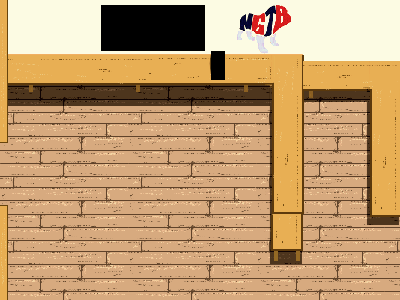
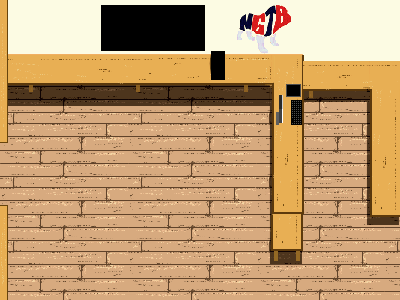
Added computer for Scott

Changed region(s): [[0.69, 0.27, 0.78, 0.42]]

diff --git a/Python Files/animation.py b/Python Files/animation.py
@@ -14,7 +14,11 @@ def animation(length, runner, folderName, directory):
     frame_length = round(length / images_num)  # How many frames each image is played for
     frameList = []  # The list of images for the animation
     for item in range(0, images_num):
-        frameList.append(pygame.image.load(directory + folderName + "/" + str(item) + ".png"))
+        try:
+            frameList.append(pygame.image.load(directory + folderName + "/" + str(item) + ".png"))
+        except:
+            images_num -= 1
+            frame_length = round(length / images_num)
     image = frameList[int(runner / frame_length)]
     return image
 
@@ -22,4 +26,4 @@ def animation(length, runner, folderName, directory):
 # @param path: The path for the directory this animation is accessing photos from
 # @return int: number of photos in the directory
 def GetFolderSize(path):
-    return len(os.listdir(path)) - 1  # TODO Fix this function so that repeat images arent needed
+    return len(os.listdir(path))

diff --git a/Python Files/main.py b/Python Files/main.py
@@ -335,7 +335,8 @@ while True:
     # </editor-fold>
 
     # <editor-fold desc="Checks collision with objects or playerBounds or mapMask">
-    for obj in objects:
+    for obj in spriteGroup:
+        print(obj.label)
         if obj.hasMask and pygame.sprite.collide_mask(player, obj):
             player.rect.x = old_player_coor[0]
             player.rect.y = old_player_coor[1]
